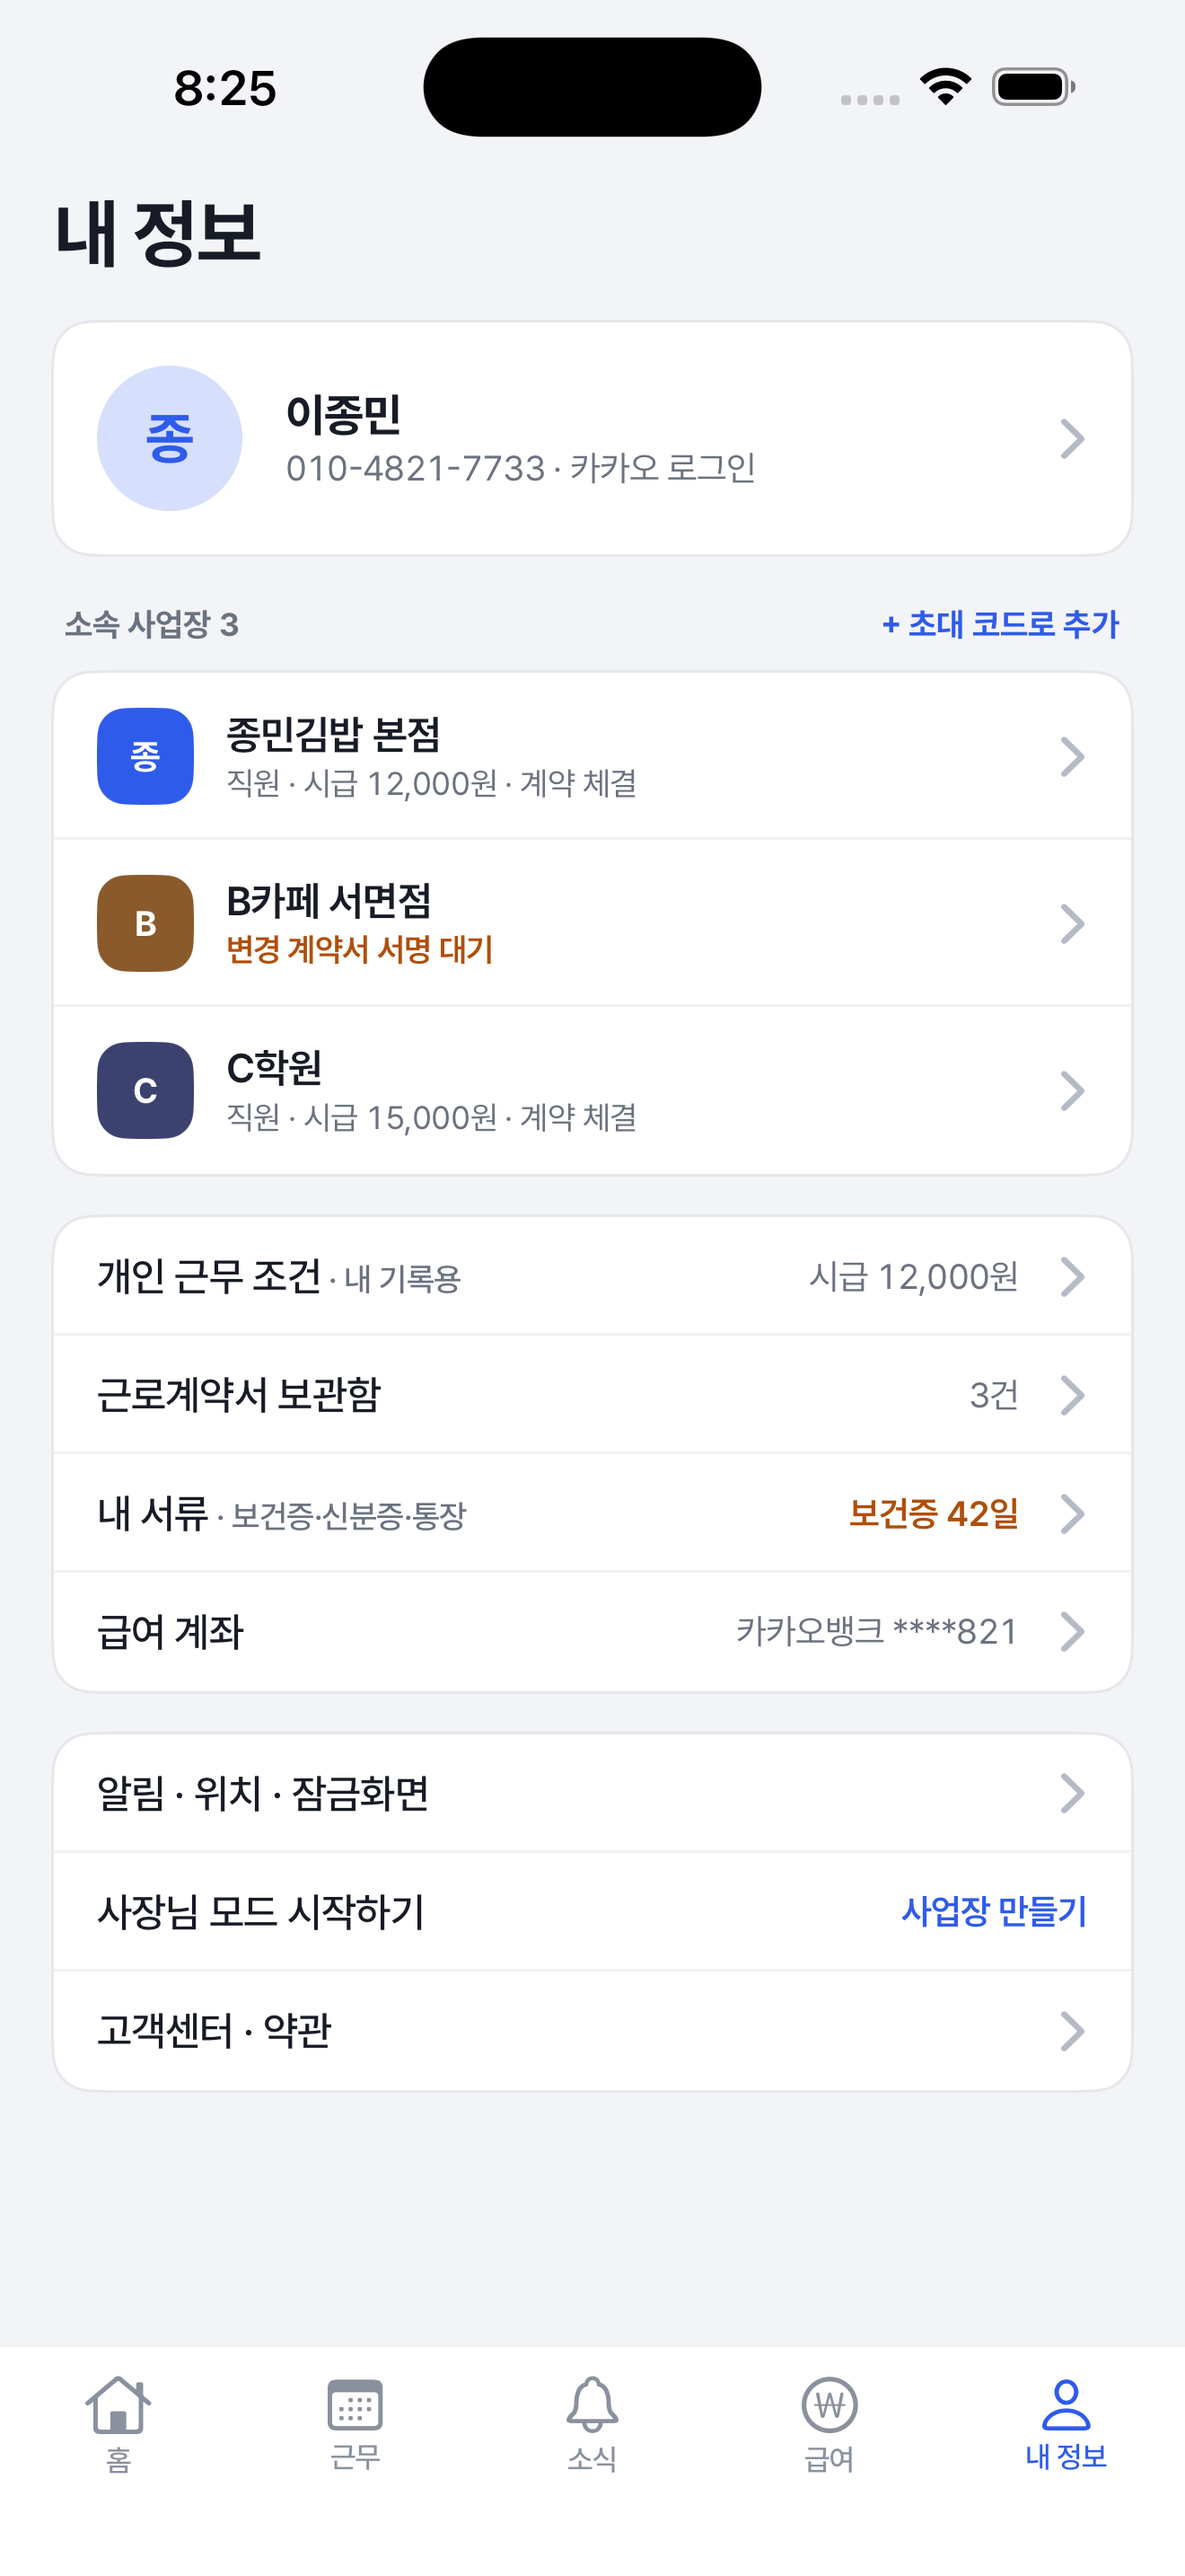
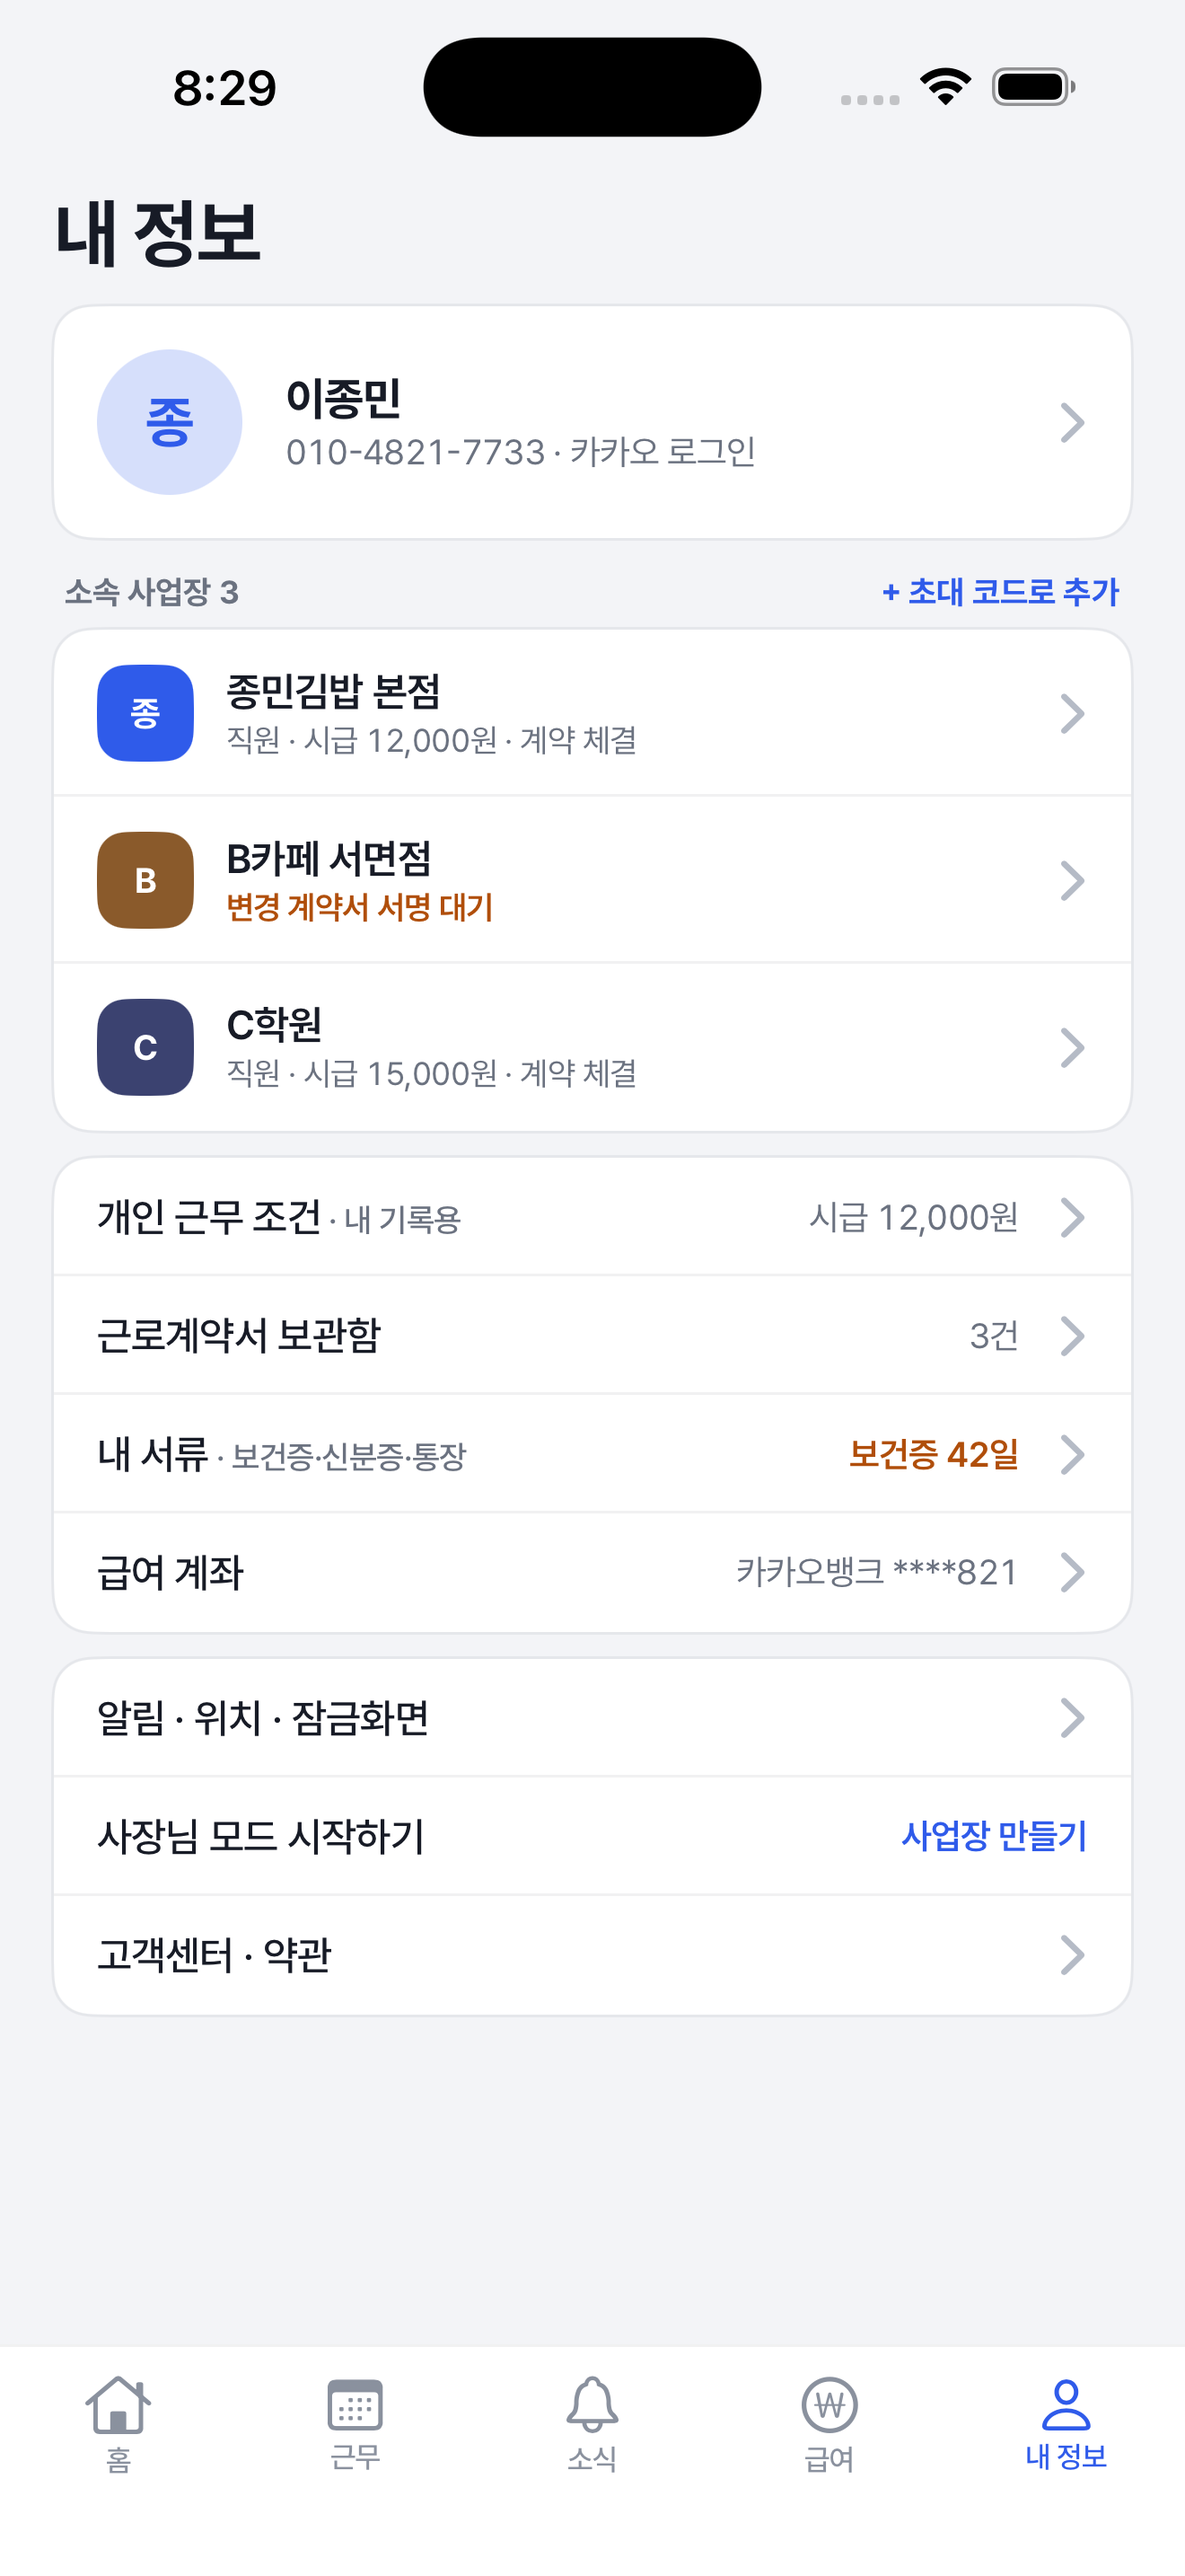
fix(account): 내 정보(4a) QA 반영 — 카드 간격
- 카드 사이를 원문(약 10)으로, 섹션 머리와 카드 사이 4
- 비교표 4a 추가 · 캡처 갱신

Refs #160 · UI-IOS-4a

diff --git a/Pum/Pum/Features/Account/MyInfo/MyInfoView.swift b/Pum/Pum/Features/Account/MyInfo/MyInfoView.swift
@@ -31,7 +31,7 @@ struct MyInfoView: View {
 
     var body: some View {
         ScrollView {
-            VStack(alignment: .leading, spacing: PumTokens.Space.s16) {
+            VStack(alignment: .leading, spacing: PumTokens.Space.s10) { // 원문: 카드 사이 약 10
                 Text("내 정보").pumText(.title1).foregroundStyle(PumColor.textPrimary)
                     .accessibilityAddTraits(.isHeader)
                     .padding(.top, PumTokens.Space.s8)
@@ -86,7 +86,7 @@ struct MyInfoView: View {
     // MARK: 소속 사업장
 
     private var workplaceSection: some View {
-        VStack(spacing: PumTokens.Space.s8) {
+        VStack(spacing: PumTokens.Space.s4) { // 원문: 머리와 카드 사이 약 4–6
             ViewThatFits(in: .horizontal) {
                 HStack(alignment: .center) {
                     PumSectionHeader(title: state.workplaceHeader)

diff --git a/docs/design/compare/screens/README.md b/docs/design/compare/screens/README.md
@@ -583,3 +583,12 @@
 | 연락 버튼 · 문자 아이콘 | 모서리 12 · 각진 말풍선 | 1차 구현 14 · 둥근 말풍선 → **Radius.md · bubble.left**(QA) | 수정 후 근접 |
 | 카카오 노랑 | #FAE100 · 검은 원 | 화면 전용 값(충돌 #23, 세 번째 복제) | 충돌 #23 — 결정 · 공통화 필요 |
 | 연락 실패 · 서류 0건 | 디자인 없음 | 클로저만 · 빈 카드 | 후속 |
+
+## UI-IOS-4a 내 정보 — 직원 (#160 · 배치 27)
+
+| 항목 | 디자인 | 구현 | 결과 |
+|---|---|---|---|
+| 배치 · 문구 | 내 정보 / 계정 카드 / 소속 사업장 3 · + 초대 코드로 추가 / 사업장 3(계약 상태) / 개인 근무 조건 · 근로계약서 · 내 서류 · 급여 계좌 / 알림 · 사장님 모드 · 고객센터 / 탭 바 5개 | 같음(3a와 같은 5개 탭) | 일치 |
+| 카드 간격 | 약 10 · 머리와 카드 약 4–6 | 1차 구현 16 · 8 → **s10 · s4**(QA) | 수정 후 근접 |
+| 탭 바 | 5개(소식 포함) | 이 화면만 5개 목록 | 충돌 #9 — 결정 필요 |
+| 사업장 0개 · 보건증 강조 기준 | 디자인 없음 | 카드 숨김 · 서버 값 그대로 주황 | 디자인 필요 |
